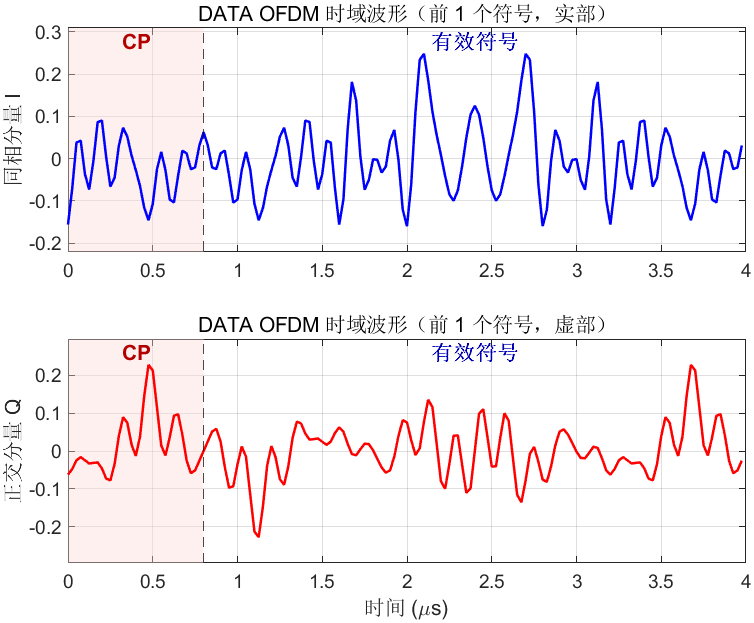
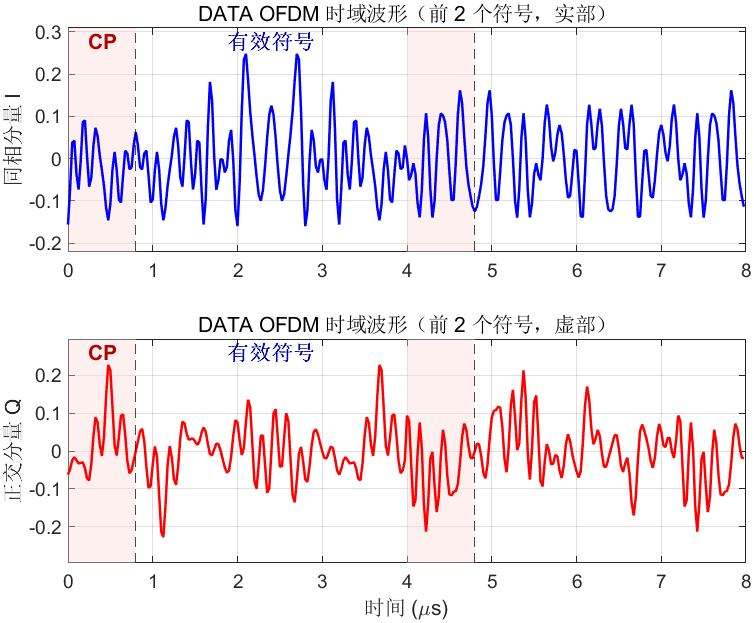
c

diff --git a/IEEE802_11a_tx.m b/IEEE802_11a_tx.m
@@ -188,13 +188,13 @@ fprintf('循环前缀：%d samples (%.1f us)\n', ...
 % 1) 时域波形图
 % -------------------------------
 % 展示前若干个含循环前缀的 DATA OFDM 符号，并标出循环前缀结束位置。
-plot_symbol_count = 1;    % 显示 OFDM 符号个数
-plot_sample_count = (oversampled_fft_size + cyclic_prefix_length) * plot_symbol_count;
+plot_symbol_count = 2;                                                                    % 显示 OFDM 符号个数
+plot_sample_count = (oversampled_fft_size + cyclic_prefix_length) * plot_symbol_count;    % 每个 OFDM 符号的样本数
 plot_waveform = transmit_waveform(1:plot_sample_count);
 plot_time_axis_us = (0:(plot_sample_count - 1)) / sample_rate_hz * 1e6;
 
-symbol_duration_us = (oversampled_fft_size + cyclic_prefix_length) / sample_rate_hz * 1e6;    % 每个含 CP 符号的时长
-cp_duration_us = cyclic_prefix_duration_s * 1e6;                                              % CP 时长
+symbol_duration_us = (oversampled_fft_size + cyclic_prefix_length) / sample_rate_hz * 1e6;    % 每个含 CP 符号的时长，4 us
+cp_duration_us = cyclic_prefix_duration_s * 1e6;                                              % CP 时长，0.8 us
 
 figure('Name', '时域波形图');
 
@@ -334,31 +334,12 @@ title('上采样后：128 点频域符号（中间 64 个 bin 补零）');
 hold off;
 
 % -------------------------------
-% 5) 功率谱密度图（Welch 方法）
+% 5) 功率谱密度图（pwelch）
 % -------------------------------
-psd_segment_length = 4096;
-psd_overlap = psd_segment_length / 2;
-psd_fft_length = 8192;
-psd_segment_step = psd_segment_length - psd_overlap;
-psd_segment_count = floor((numel(transmit_waveform) - psd_overlap) / ...
-    psd_segment_step);
-psd_window = 0.5 - 0.5 * cos(2 * pi * ...
-    (0:psd_segment_length - 1)' / psd_segment_length);
-psd_accumulator = zeros(psd_fft_length, 1);
-
-for psd_segment_index = 1:psd_segment_count
-    first_sample_index = (psd_segment_index - 1) * psd_segment_step + 1;
-    last_sample_index = first_sample_index + psd_segment_length - 1;
-    waveform_segment = transmit_waveform(first_sample_index:last_sample_index).';
-    segment_spectrum = fftshift(fft(waveform_segment .* psd_window, ...
-        psd_fft_length));
-    psd_accumulator = psd_accumulator + abs(segment_spectrum).^2 / ...
-        (sample_rate_hz * sum(psd_window.^2));
-end
-
-power_spectral_density = psd_accumulator / psd_segment_count;
-psd_frequency_hz = (-psd_fft_length / 2:psd_fft_length / 2 - 1) * ...
-    (sample_rate_hz / psd_fft_length);
+% 使用 Signal Processing Toolbox 的 pwelch 计算完整发射波形的功率谱密度。
+% 参数：汉宁窗 4096 点、50% 重叠（2048 点）、8192 点 FFT、输出以 DC 为中心。
+[power_spectral_density, psd_frequency_hz] = pwelch(transmit_waveform(:), ...
+    hann(4096, 'periodic'), 2048, 8192, sample_rate_hz, 'centered', 'psd');
 
 figure('Name', '功率谱密度图');
 plot(psd_frequency_hz / 1e6, ...

diff --git a/README.md b/README.md
@@ -4,20 +4,17 @@
 
 `IEEE802_11a_tx.m` 当前完成 6 Mbps 模式下从测试 PSDU 到 DATA OFDM 时域波形：生成测试字节、追加 CRC-32 FCS、添加 SERVICE/TAIL 和 OFDM PAD、加扰、卷积编码、交织、BPSK 调制、数据子载波映射、导频插入、2 倍频域补零上采样、128 点 IFFT 和循环前缀添加。
 
-脚本输出的是不含 PLCP 前导码和 SIGNAL 字段的 DATA 符号波形，因此还不是完整的 IEEE 802.11a PPDU。
-
 ## 2. 运行环境
 
-- 提供 `int2bit` 函数的 MATLAB 版本。
+- MATLAB。
 - Communications Toolbox（提供 `int2bit`、`poly2trellis` 和 `convenc`）。
+- Signal Processing Toolbox（提供 `pwelch` 和 `hann`）。
 - 在 MATLAB 当前文件夹切换到本项目目录，然后运行：
 
   ```matlab
   IEEE802_11a_tx
   ```
-
-运行后，`payload_data_bits`、`crc_value`、`crc_bits_row`、`payload_bits`、`padded_bits`、`scrambled_bits`、`coded_bits`、`interleaved_bits`、`BPSK_data`、`pilot_polarity_sequence`、`pilot_subcarrier_symbols`、`frequency_domain_symbols`、`upsampled_frequency_domain_symbols`、`time_domain_symbols`、`ofdm_symbols_with_cp` 和 `transmit_waveform` 等变量会保留在工作区。各矩阵按列存放 OFDM 符号；`transmit_waveform` 是按符号顺序串行化后的复数行向量。
-
+  
 ## 3. 系统参数
 
 | 参数 | 默认值 | 说明 |
@@ -63,11 +60,11 @@ FCS 只覆盖 PSDU 数据，不覆盖 SERVICE、TAIL 或 OFDM PAD。当前示例
 
 ## 6. 加扰实现
 
-加扰器使用 7 位线性反馈移位寄存器，生成多项式为 `x^7 + x^4 + 1`。每个时钟周期将寄存器第  7 位与第 4 位异或得到扰码位，然后移位并将反馈位移入寄存器的 x1；扰码位再与对应的数据位异或。先处理生成全部的加扰序列，数据最后和整个序列进行异或。最后恢复 TAIL 位，全部置零。
+加扰器使用 7 位线性反馈移位寄存器，生成多项式为 `x^7 + x^4 + 1`。每个时钟周期将寄存器第  7 位与第 4 位异或得到扰码位，然后移位并将反馈位移入寄存器的 x1；扰码位再与对应的数据位异或。先处理生成全部的加扰序列，数据最后和整个序列进行异或。
 
 ## 7. 卷积编码
 
-卷积编码使用约束长度 `K=7`、生成多项式 `[133 171]`（八进制），码率为 1/2。输入流中已有 6 个全零 TAIL 位，用于将编码器状态归零；因此本示例的 8,376 个输入位编码为 16,752 个输出位。
+卷积编码使用约束长度 `K=7`、生成多项式 `[133 171]`（八进制），码率为 1/2。
 
 ## 8. 交织
 
@@ -95,7 +92,7 @@ j = s × floor(i / s) + (i + N_CBPS - floor(16 × i / N_CBPS)) mod s
 
 采样率和频域插值方法参考《通信原理课程设计实验指导书2023》第 1.2.3 和 1.5.1 节。该波形尚未拼接短/长训练序列或 SIGNAL 字段，也未执行 DAC 量化和射频发送。
 
-## 11. 可视化
+## 11. 绘图
 
 脚本末尾的“绘图”部分生成五张 MATLAB 图窗：
 
@@ -103,4 +100,4 @@ j = s × floor(i / s) + (i + N_CBPS - floor(16 × i / N_CBPS)) mod s
 2. **星座图**：所有实际发送的 BPSK 数据符号（`0 → +1`、`1 → -1`），标出同相/正交分量坐标轴与 bit 对应关系。
 3. **子载波映射图**：第一个 DATA OFDM 符号的 64 个子载波分配（48 数据 + 4 导频 + 12 空载波），按颜色区分数据、导频与空载波，并标出 DC 子载波。
 4. **上采样后频域图**：频域 2 倍补零上采样前后对比（64 点 → 128 点），展示正、负频率之间插入的 64 个零。
-5. **功率谱密度图**：完整串行发射波形的 Welch 功率谱密度，频率单位为 MHz，功率谱密度单位为 dB/Hz。
+5. **功率谱密度图**：完整串行发射波形的 pwelch 功率谱密度，频率单位为 MHz，功率谱密度单位为 dB/Hz。
